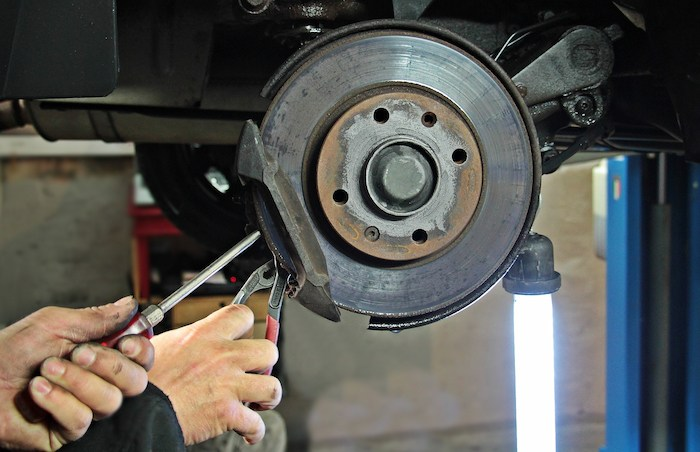
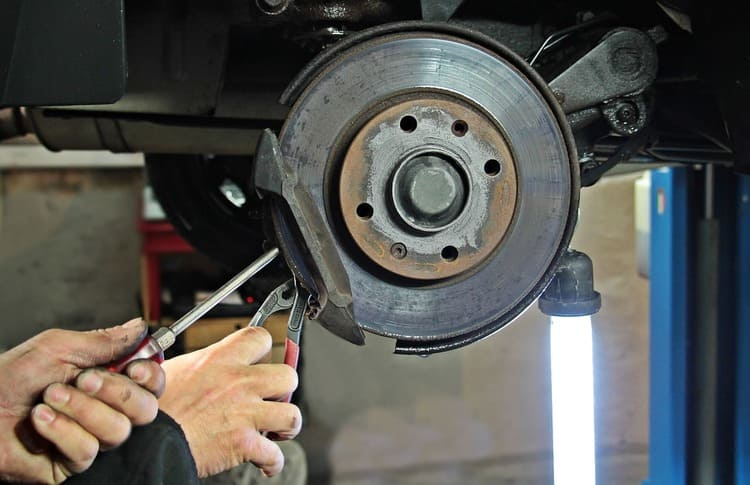
Made some changes based on optimization

diff --git a/brakes/brakes.html b/brakes/brakes.html
@@ -13,13 +13,12 @@
    
 </head>
 <body>
-<!--------Header-------->
-<!--------Bootstrap 5 Navbar-------->
-<!--------https://getbootstrap.com/docs/5.3/components/navbar/-------->
+<!--navbar-->
+<!--code snippet https://getbootstrap.com/docs/5.3/components/navbar/-->
 <header>
-  <nav class="navbar navbar-expand-sm mb-3">
+  <nav class="navbar navbar-expand mb-3">
     <div class="container-fluid">
-      <!--------Logo-------->
+        <!--replace navbar text with logo?-->
       <a class="navbar-brand" href="#"> <img src="../images/headerlogo.jpg"></a> 
       <button class="navbar-toggler" type="button" data-bs-toggle="collapse" data-bs-target="#navbarNavDropdown" aria-controls="navbarNavDropdown" aria-expanded="false" aria-label="Toggle navigation">
         <span class="navbar-toggler-icon"></span>
@@ -38,7 +37,7 @@
             Services
             </a>
             <ul class="dropdown-menu">
-            <!--------Navigation-------->
+            <!--add page paths below-->
               <li><a class="dropdown-item" href="#">Brakes</a></li>
               <li><a class="dropdown-item" href="../clutch/clutch.html">Clutch Replacement</a></li>
               <li><a class="dropdown-item" href="../carservice/carservice.html">Car Service</a></li>
@@ -46,7 +45,7 @@
             </ul>
             <li class="nav-item">
                 <a class="nav-link" href="../contact/contact.html">Contact Us</a>
-            </li>
+              </li>
           </li>
         </ul>
       </div>
@@ -60,9 +59,9 @@
       
     
       <div class="row justify-content-center flex-column-reverse flex-lg-row">
-        <div class="col-lg-6 mb-3 brakes-img">
+        <div class="col-lg-6 mb-3">
           <!--https://pixabay.com/photos/auto-repair-shop-workshop-brake-disc-1954636/-->
-          <img src="../images/Brakes (1).jpg" alt="brakes" id="brakes-img" class="img-fluid">
+          <img src="../images/Brakes (1).jpg" alt="brakes"  class="img-fluid brakes-img">
         </div>
         <div class="col-lg-6" >
                <h1 class="text-center">Brakes inspection and repair</h1>   
@@ -92,9 +91,9 @@
                <br>
               
             </div>
-            <div class="col-lg-6 mb-3 brakes-img-2">
+            <div class="col-lg-6 mb-3">
               <!--<a href="https://www.freepik.com/free-photo/mechanic-fixing-car-brake_1005719.htm#query=mechanic%20brake&position=2&from_view=search&track=ais&uuid=4cfa41b1-60c0-4a4b-882f-99c48cd58f37">Image by peoplecreations</a> on Freepik-->
-              <img src="../images/Brake-services.jpg" alt="brakes services" class="img-fluid">
+              <img src="/images/Brake-services.jpg" alt="brakes services" class="img-fluid brakes-img">
             </div>
       </div>  
       <br>
@@ -264,7 +263,7 @@
       and `<div class="testimonial-text">`. -->
               <div class="testimonial-container">
                   <div class="testimonial-avatar">
-                      <img src="../images/Michael-Thomson-Testimonial.jpg" alt="CJF Testimonial">
+                      <img src="/images/Michael-Thomson-Testimonial.jpg" alt="CJF Testimonial">
                   </div>
                   <div class="testimonial-text">
                       <p class="testimonial-name">Michael Thompson</p>
@@ -275,7 +274,7 @@
               <!-- Testimonial containers... -->
               <div class="testimonial-container">
                   <div class="testimonial-avatar">
-                     <img src="../images/Marie-Healey-Testimonial.jpg" alt="CJF Testimonial">
+                     <img src="/images/Marie-Healey-Testimonial.jpg" alt="CJF Testimonial">
                   </div>
                   <div class="testimonial-text">
                       <p class="testimonial-name">Marie Healey</p>
@@ -288,7 +287,7 @@
               <!-- Testimonial containers... -->
               <div class="testimonial-container">
                   <div class="testimonial-avatar">
-                    <img src="../images/John-Doe-Testimonial.jpg" alt="CJF Testimonial">
+                    <img src="/images/John-Doe-Testimonial.jpg" alt="CJF Testimonial">
                   </div>
                   <div class="testimonial-text">
                       <p class="testimonial-name">John Doe</p>
@@ -346,6 +345,6 @@
     <script src="../scripts/script.js"></script>
     <script src="../scripts/rps.js"></script>
     <script src="https://cdn.jsdelivr.net/npm/bootstrap@5.3.2/dist/js/bootstrap.bundle.min.js" integrity="sha384-C6RzsynM9kWDrMNeT87bh95OGNyZPhcTNXj1NW7RuBCsyN/o0jlpcV8Qyq46cDfL" crossorigin="anonymous"></script>
-    <script src="../scripts/brakes.js"></script>
+    <script src="/scripts/brakes.js"></script>
 </body>
 </html>

diff --git a/index.html b/index.html
@@ -21,7 +21,7 @@
   <nav class="navbar navbar-expand-sm mb-3">
     <div class="container-fluid">
         <!--replace navbar text with logo?-->
-      <a class="navbar-brand" href="#"> <img src="images/headerlogo.jpg"></a> 
+      <a class="navbar-brand" href="#"> <img src="images/headerlogo.jpg" alt="header-logo"></a> 
       <button class="navbar-toggler" type="button" data-bs-toggle="collapse" data-bs-target="#navbarNavDropdown" aria-controls="navbarNavDropdown" aria-expanded="false" aria-label="Toggle navigation">
         <span class="navbar-toggler-icon"></span>
       </button>
@@ -157,15 +157,12 @@
         <form id="news-form">
           <h3>Newsletter registration</h3>
               <img src="images/headerlogo.jpg" alt="logo" class="image-newsletter">
-              <p></p>
-              <p>
-                Rev up your ride with <b>CJF Mechanics!</b>
-                <p></p>
-                <i>Subscribe for exclusive updates, expert tips, and special offers—stay in the driver's seat of automotive excellence.</i>
+              <p>Rev up your ride with <b>CJF Mechanics!</b>
+              </p><p><i>Subscribe for exclusive updates, expert tips, and special offers—stay in the driver's seat of automotive excellence.</i>
               </p>
               <div class="form-group">
-              <input id="inputfield" type="email" name="email" id="email" required placeholder="Enter Email Address"/>
-              <button id="submit-btn">Sign Up</button>
+              <input class="inputfield" type="email" name="email"  required placeholder="Enter Email Address">
+              <button class="submit-btn">Sign Up</button>
               </div>
         </form>
         </div>
@@ -197,7 +194,7 @@
   <div class="newsletter-bg">
     <div class="row justify-content-center row-newsletter">
       <div class="col newsletter-col">
-        <img src="images/carContainer.jpg">
+        <img src="images/carContainer.jpg" alt="car-newsletter">
       </div>  
       <div class="col newsletter-col">
       <form id="news-form">
@@ -207,8 +204,8 @@
             <p>
               Rev up your ride with <b>CJF Mechanics!</b><br><br> <i>Subscribe for exclusive updates, expert tips, and special offers—stay in the driver's seat of automotive excellence.</i></p>
               <div class="form-group" style="display: flex; flex-direction: row;">
-                <input id="inputfield" type="email" name="email" id="email" required placeholder="Enter Email Address"/>
-                <button id="submit-btn">Sign Up</button>
+                <input class="inputfield" type="email" name="email" required placeholder="Enter Email Address">
+                <button class="submit-btn">Sign Up</button>
               </div>
       </form>
       </div>
@@ -219,7 +216,7 @@
 <!-- Footer -->
 <footer class="site-footer text-center text-white mt-5">
   <div class="container p-1">
-    <section class="mb-4">
+    <div class="mb-4">
       <p>
         CJF Mechanics - The only mechanics you'll need.
       </p>
@@ -227,7 +224,7 @@
       <p> 
         © 2023 Copyright CJF Mechanics
       </p>
-    </section>
+    </div>
   </div>
 </footer>
 <!-- Footer -->

diff --git a/about/about.html b/about/about.html
@@ -57,16 +57,15 @@
   
 <!--add about content below here-->
 
-<div class="body-aboutus container-fluid">
-  
-  <h1 id="about-title">About us</h1>
+<h1 id="about-title">About us</h1>
+<div class="body-aboutus container-xxl">
   <section>
   <div class="row aboutrow  justify-content-center" id="mission-row">
     <div class="col-lg-6">
       <h2>Our Mision</h2>
       <p class="text-about-us">"At CJFMechanics, our mission is to set the standard for excellence in automotive repair. We are dedicated to providing our customers with top-notch service, ensuring their vehicles run at peak performance. Committed to quality craftsmanship, we aim to be the trusted destination for high-caliber car care in our community."</p>
     </div>
-    <div class="col-lg-6">
+    <div class="col-lg-6 d-flex justify-content-center">
       <img src="../images/About us CJF.jpg" alt="About us" class="img-fluid" >
     </div>
   </section>
@@ -74,10 +73,11 @@
   <section>
     <!--Used flexbox properties to give the images and the columns a smooth movement-->
     <div class="row aboutrow justify-content-center flex-column-reverse flex-lg-row" id="vision-row">
-      <div class=col-lg-5>
+      <div class="col-lg-6 d-flex justify-content-center" >
+        <!--https://www.freepik.com/free-photo/business-concept-with-team-close-up_19924274.htm#query=company%20vision&position=14&from_view=search&track=ais&uuid=e769a333-39f7-4679-ac66-18b45058900a-->
         <img src="../images/vision.jpg" alt="Our Vision" class="img-fluid">
         </div>
-        <div class="col-lg-5">
+        <div class="col-lg-6">
           <h2>Our Vision</h2>
           <p class="text-about-us">"As the team behind CJF Mechanics, we envision our brand as synonymous with precision, reliability, and customer satisfaction. We strive to be the preferred choice for automotive solutions, known for our commitment to excellence. Through innovation and a passion for quality, we aspire to lead the way in shaping the future of automotive maintenance."</p>
         </div>

diff --git a/styles/style.css b/styles/style.css
@@ -31,7 +31,7 @@ color: #16354D;
     /*change logo to blend with background?*/
     height: 60px;
 }
-.clutch-img img, .brakes-img img, .brakes-img-2 img{
+.clutch-img img, .brakes-img , .brakes-img-2 img{
     object-fit: cover;
     margin-top: 8px;
     height: 100%;
@@ -55,7 +55,7 @@ color: #16354D;
 }
 /*highlight call and book buttons on hover*/
 
-.call-button:hover, .book-button:hover, #submit-btn:hover, #submitbutton:hover{
+.call-button:hover, .book-button:hover, .submit-btn:hover, #submitbutton:hover{
     color: #16354D !important;
     font-weight: bold;
     background-color: darkorange;
@@ -299,9 +299,6 @@ color: #16354D;
       display: flex;  
     }
 
-    #brakes-img{
-        max-width: auto;
-    }
 
 
 .wrapper-class input[type="radio"] {
@@ -444,7 +441,7 @@ textarea{
   }
   
   
-   #inputfield {
+   .inputfield {
     width: 65%; 
     border: 1px solid #6B99C3;
     max-width: 300px;
@@ -473,9 +470,9 @@ textarea{
 
   /*about page- Federico*/
 
-  .body-aboutus{
-    max-width: 1280px;
-  }
+  /* .body-aboutus{
+    max-width: 1360px;
+  } */
 
   #about-title{
     text-align: center;
@@ -498,6 +495,9 @@ textarea{
     align-items: center;
       
    
+}
+.aboutrow img{
+    object-fit: cover;
 }
 
 .text-about-us{
